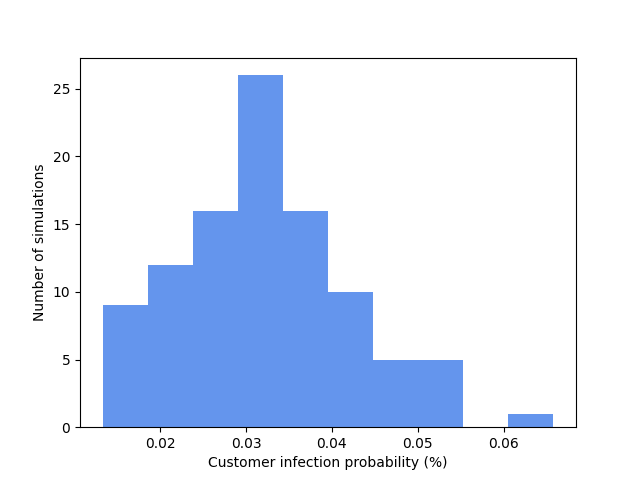
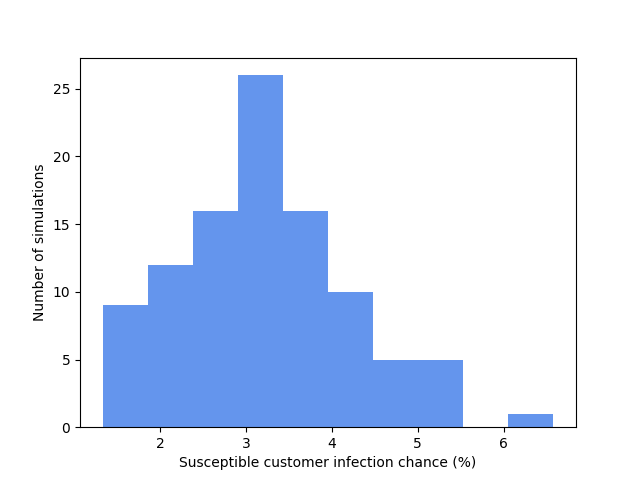
Updated plot, added numerical results

Changed region(s): [[0.2812, 0.9062, 0.75, 1.0], [0.75, 0.9062, 0.8125, 0.9375], [0.2188, 0.9062, 0.2812, 0.9375]]

diff --git a/covid_spread_model/simulation.py b/covid_spread_model/simulation.py
@@ -171,8 +171,51 @@ class Simulation:
         visualizer.run()
     
     def print_basic_results(self) -> None:
-        # to-do
-        return
+        """Very messy results calculations"""
+        tick_dur = self.config['flow']['tick_duration_sec']
+        # init empty arrays
+        n_cust, n_cust_i, n_cust_s = [], [], []
+        n_cust_store, shop_time = [], []
+        et_tot, et_sus, et_inf = [], [], []
+        pct_sus_exp = []
+        n_new_inf, chance_inf_sus = [], []
+        # populate arrays
+        for i in range(self.history.n_simulations):
+            # num customers
+            n_cust.append(self.history.n_customers_who_visited[i][-1])
+            n_cust_i.append(self.history.n_infected_who_visited[i][-1])
+            n_cust_s.append(n_cust[-1] - n_cust_i[-1])
+            n_cust_store.append(np.mean(np.array(self.history.n_customers_in_store[i])))
+            # shopping
+            shop_time.append(tick_dur * np.mean(np.array(self.history.customer_shopping_times[i])))
+            # exposure
+            et_tot.append(tick_dur * sum(map(lambda t: t[0], self.history.customer_exposure_times[i])))
+            et_sus_lst = [t[0] for t in self.history.customer_exposure_times[i] if not t[1]]
+            et_inf_lst = [t[0] for t in self.history.customer_exposure_times[i] if t[1]]
+            et_sus.append(tick_dur * sum(et_sus_lst) / len(et_sus_lst))
+            et_inf.append(tick_dur * sum(et_inf_lst) / len(et_inf_lst))
+            pct_sus_exp.append(sum(1 for t in et_sus_lst if t > 0) / len(et_sus_lst))
+            n_new_inf.append(self.history.n_newly_infected[i][-1])
+            chance_inf_sus.append(n_new_inf[-1] / n_cust_s[-1])
+        # list metrics and relevant arrays
+        result_arrs = [
+            ['num daily customers', n_cust, 2],
+            ['num infected customers', n_cust_i, 2],
+            ['num susceptible customers', n_cust_s, 2],
+            ['mean num in store', n_cust_store, 2],
+            ['mean shop time (sec)', shop_time, 2],
+            ['total exp time (sec)', et_tot, 2],
+            ['mean exp time (sec) per susceptible cust', et_sus, 2],
+            ['total exp time (sec) per infected cust', et_inf, 2],
+            ['proportion of susceptible cust with any exposure', pct_sus_exp, 4],
+            ['num new infections', n_new_inf, 2],
+            ['proportion of infections per susceptible cust', chance_inf_sus, 5],
+        ]
+        # calculate results and print
+        print('metric,mean,sd')
+        for metric, arr, rnd in result_arrs:
+            arr = np.array(arr)
+            print(f'{metric},{round(np.mean(arr), rnd)},{round(np.std(arr), rnd)}')
 
     def plot_basic_results(self) -> None:
         """Plots a selection of basic results"""
@@ -254,9 +297,9 @@ class Simulation:
             final_n_inf = self.history.n_infected_who_visited[i][-1]
             final_n_new = self.history.n_newly_infected[i][-1]
             inf_chance = final_n_new / (final_n_vis - final_n_inf)
-            inf_chances.append(inf_chance)
+            inf_chances.append(100 * inf_chance)
         plt.hist(inf_chances, color='cornflowerblue')
-        plt.xlabel('Customer infection probability (%)')
+        plt.xlabel('Susceptible customer infection chance (%)')
         plt.ylabel('Number of simulations')
         plt.show()
 
@@ -272,7 +315,7 @@ class Simulation:
                 std_arr[i] += (avg_arr[i] - history_array[j][i]) ** 2
             std_arr[i] = (std_arr[i] / self.history.n_simulations) ** 0.5
         return np.array(avg_arr), np.array(std_arr)
-
+    
     def __get_time_ticks(self) -> Tuple[List[int], List[str]]:
         opening_time = self.config['flow']['opening_time']
         hours_open = self.config['flow']['hours_open']
